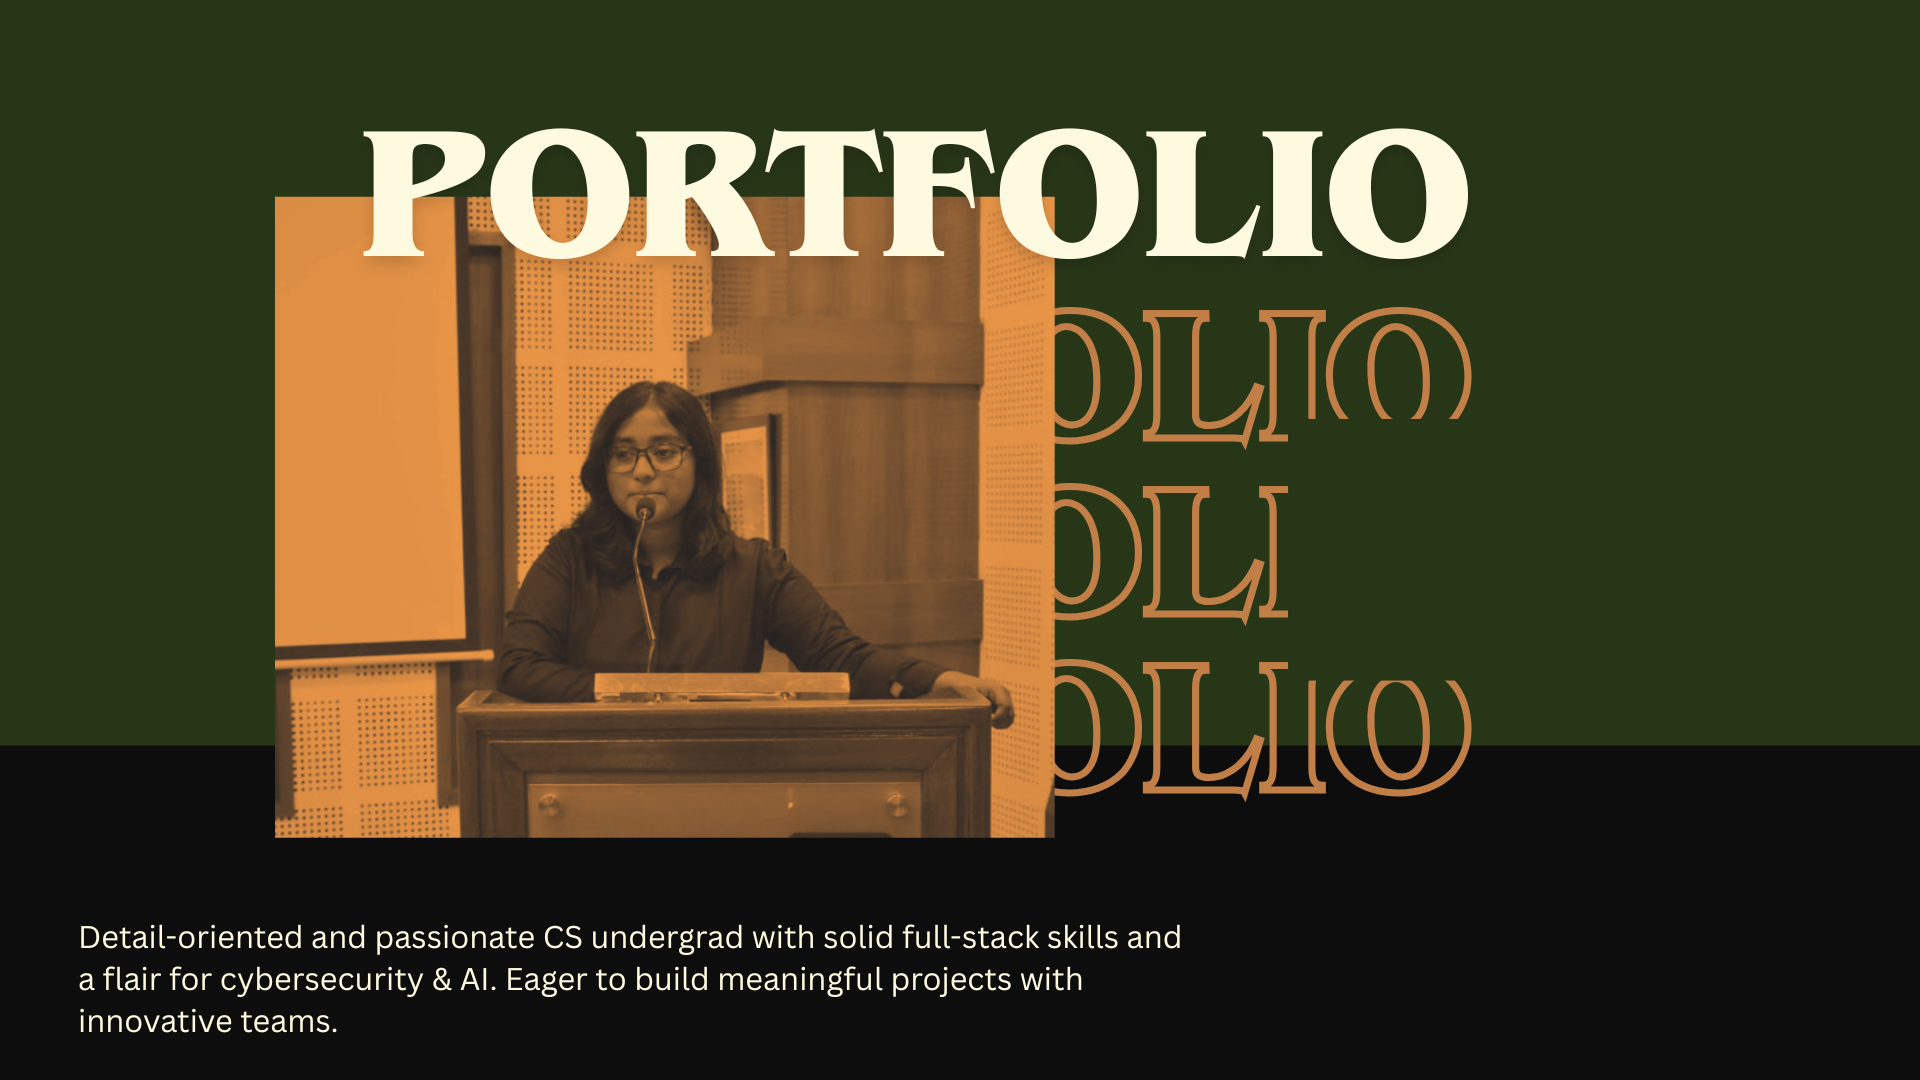
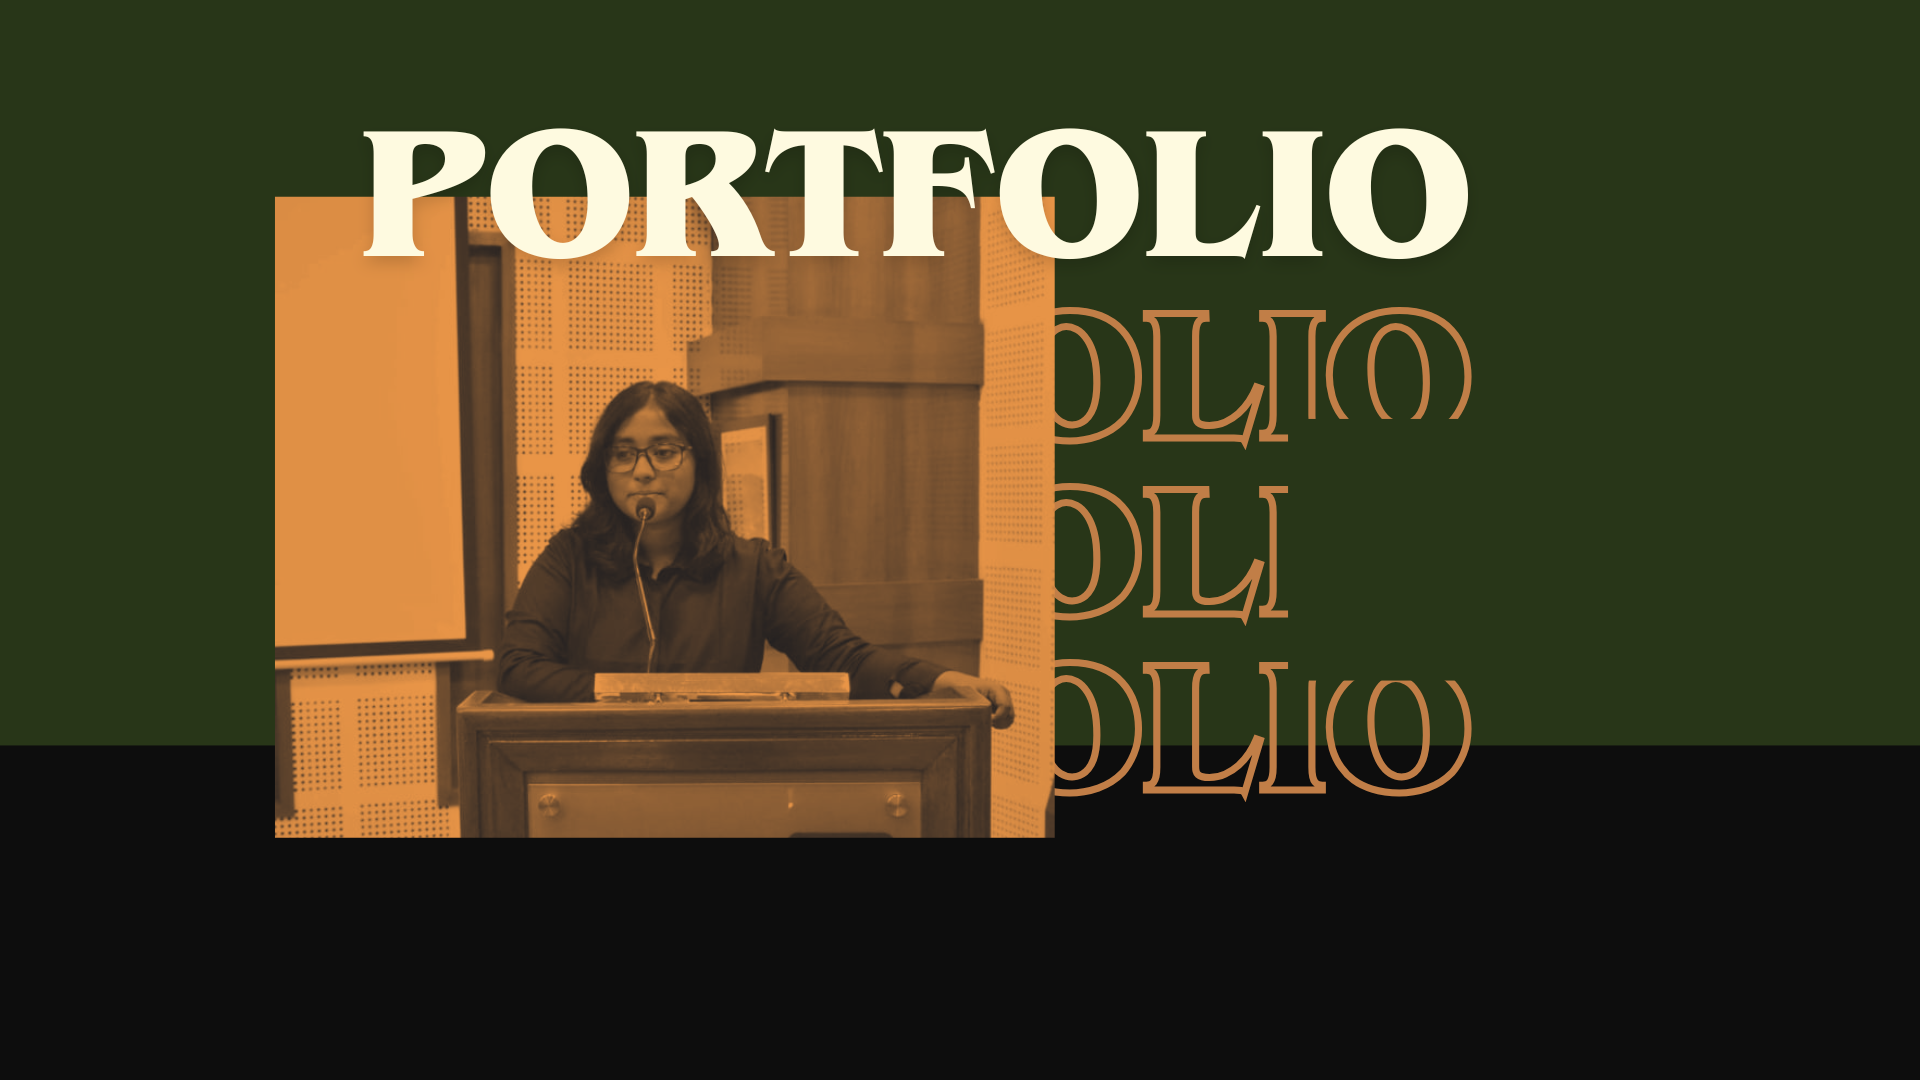
Added typing animation to hero section

Changed region(s): [[0.0312, 0.8556, 0.625, 0.9778]]

diff --git a/index.html b/index.html
@@ -22,49 +22,21 @@
     </div>
   </section>
 
+  <!-- Intro Section -->
+  <section class="intro">
+    <p>Detail-oriented and passionate CS undergrad with solid full-stack skills and a flair for cybersecurity & AI. Eager to build meaningful projects with innovative teams.</p>
+  </section>
+
  
 
   <!-- Education -->
   <section class="education">
     <h2>Education</h2>
     <ul>
-      <li><strong>Chitkara University</strong> – B.Tech CSE – CGPA: 8.92 – Aug 2022 – Present</li>
-      <li><strong>Sacred Heart Sr. Sec School</strong> – Class XII – 91% – Apr 2021 – Mar 2022</li>
-      <li><strong>Sacred Heart Sr. Sec School</strong> – Class X – 93.8% – Apr 2019 – Apr 2020</li>
+      <li><strong>Chitkara University</strong> –> B.Tech CSE – CGPA: 8.92  (Aug 2022 – Present)</li>
+      <li><strong>Sacred Heart Sr. Sec School</strong> –> Class XII – 91%  (Apr 2021 – Mar 2022)</li>
+      <li><strong>Sacred Heart Sr. Sec School</strong> –> Class X – 93.8%  (Apr 2019 – Apr 2020)</li>
     </ul>
-  </section>
-
-  <!-- Projects -->
-  <section class="projects">
-    <h2>Projects</h2>
-    <div class="project-grid">
-      <div class="project-card"><h3>Nexus Health</h3><p>AI-powered disease prediction web app using ML, Firebase, JS, Python.</p></div>
-      <div class="project-card"><h3>Kala Kriti</h3><p>Full-stack artisan eCommerce platform with Firebase auth and Stripe.</p></div>
-      <div class="project-card"><h3>Sizzle Swipe</h3><p>Food-based dating platform with custom match algorithm in MongoDB.</p></div>
-      <div class="project-card"><h3>Pharaoh’s Enigma</h3><p>Escape room puzzle game with dynamic transitions using JS.</p></div>
-      
-    </div>
-  </section>
-
-  <!-- Skills -->
-  <section class="skills">
-    <h2>Skills</h2>
-    <div class="skills-block">
-      <h3>Tech Stack</h3>
-      <ul>
-        <li>JavaScript, HTML, CSS</li>
-        <li>React.js, Node.js, Express.js</li>
-        <li>MySQL, MongoDB, Firebase</li>
-      </ul>
-    </div>
-    <div class="skills-block">
-      <h3>Tools & Platforms</h3>
-      <ul>
-        <li>Git, Firebase, Postman</li>
-        <li>VS Code, REST APIs</li>
-        <li>Cloud Computing Basics</li>
-      </ul>
-    </div>
   </section>
 
   <!-- Certifications -->
@@ -76,6 +48,58 @@
       <li>Foundations of Cybersecurity - Google</li>
     </ul>
   </section>
+
+
+  <section class="skills">
+    <h2>Technical Skills</h2>
+  
+    <div class="skills-container">
+      <!-- Tools & Platforms styled like Software Skills -->
+      <div class="skills-column">
+        <h3>Tools & Platforms</h3>
+        <div class="software-icons">
+          <span class="icon">Git</span>
+          <span class="icon">Firebase</span>
+          <span class="icon">Postman</span>
+          <span class="icon">VS Code</span>
+          <span class="icon">REST APIs</span>
+          <span class="icon">Cloud Basics</span>
+        </div>
+      </div>
+  
+      <!-- Tech Stack styled like Coding Skills -->
+      <div class="skills-column">
+        <h3>Tech Stack</h3>
+        <div class="software-icons">
+          <span class="icon">JavaScript</span>
+          <span class="icon">HTML</span>
+          <span class="icon">CSS</span>
+          <span class="icon">React.js</span>
+          <span class="icon">Node.js</span>
+          <span class="icon">Express.js</span>
+          <span class="icon">MySQL</span>
+          <span class="icon">MongoDB</span>
+          <span class="icon">Firebase</span>
+        </div>
+      </div>
+    </div>
+  
+  
+    
+  </section>
+
+   <!-- Projects -->
+   <section class="projects">
+    <h2>Projects</h2>
+    <div class="project-grid">
+      <div class="project-card"><h3>Nexus Health</h3><p>AI-powered disease prediction web app using ML, Firebase, JS, Python.</p></div>
+      <div class="project-card"><h3>Kala Kriti</h3><p>Full-stack artisan eCommerce platform with Firebase auth and Stripe.</p></div>
+      <div class="project-card"><h3>Sizzle Swipe</h3><p>Food-based dating platform with custom match algorithm in MongoDB.</p></div>
+      <div class="project-card"><h3>Pharaoh’s Enigma</h3><p>Escape room puzzle game with dynamic transitions using JS.</p></div>
+      
+    </div>
+  </section>
+  
 
   <!-- Extra Curriculars -->
   <section class="extras">

diff --git a/styles.css b/styles.css
@@ -45,7 +45,7 @@ body {
     height: 820px;
   }
   .typewriter {
-    font-size: 3.8rem;
+    font-size: 5.8rem;
     font-family:Impact, Haettenschweiler, 'Arial Narrow Bold', sans-serif;
     color: #fefae0;
     white-space: nowrap;
@@ -56,7 +56,7 @@ body {
     margin-top: 20px;
     display: inline-block;
     position: absolute;
-    top: 740px;
+    top: 790px;
     left : 0px;
   }
   
@@ -121,16 +121,25 @@ body {
   
   /* Intro */
   .intro {
-    background-color: #faedcd;
-    border-left: 10px solid #dda15e;
+    background-color: black;
+    height: 30px;
   }
   
   .intro p {
-    font-size: 1.1rem;
-    max-width: 800px;
+    font-size: 1.5rem;
+    width: 1000px;
+    position: relative;
+    bottom: 80px;
+    color: aliceblue;
   }
   
   /* Education */
+
+  .education {
+    
+    font-size: 1.4rem;
+  }
+
   .education ul {
     list-style: none;
     padding-left: 0;
@@ -140,6 +149,8 @@ body {
     margin: 15px 0;
     padding-left: 15px;
     border-left: 5px solid #bc6c25;
+    padding-bottom: 10px;
+    padding-top: 10px;
   }
   
   /* Projects */
@@ -167,20 +178,84 @@ body {
     transform: scale(1.03);
   }
   
-  /* Skills */
-  .skills-block {
-    margin-top: 20px;
+
+
+  .skills {
+    background-color: #2d3a2e; /* Dark green */
+    color: #fff;
+    padding: 40px;
+    font-family: sans-serif;
+    position: relative;
+    bottom:470px;
+    padding-left: 160px;
+    width:800px;
   }
   
-  .skills-block h3 {
-    color: #bc6c25;
+  .skills h2 {
+    color: #f4a261; 
+    font-size: 55px;
+    margin-bottom: 20px;
+  }
+  
+  .skills-container {
+    display: flex;
+    gap: 40px;
+    flex-wrap: wrap;
+  }
+  
+  .skills-column {
+    flex: 1;
+    min-width: 250px;
+    font-size: 1.4rem;
+  }
+  
+  .skills-column h3 {
+    color: #ffffff;
     margin-bottom: 10px;
+    font-size: 30px;
   }
   
-  .skills-block ul {
-    list-style: disc;
-    padding-left: 20px;
+  .software-icons {
+    display: flex;
+    gap: 10px;
+    flex-wrap: wrap;
   }
+  
+  .icon {
+    background: #f4f4f4;
+    color: #000;
+    font-weight: bold;
+    padding: 10px 14px;
+    border-radius: 8px;
+    font-size: 18px;
+  }
+  
+  .coding-skills {
+    margin-top: 8px;
+  }
+  
+  .coding-skills span {
+    display: inline-block;
+    margin-right: 10px;
+    margin-top: 4px;
+    font-size: 14px;
+  }
+  
+  .tags {
+    margin-top: 30px;
+    display: flex;
+    gap: 15px;
+    flex-wrap: wrap;
+  }
+  
+  .tag {
+    background-color: #000;
+    color: #fff;
+    padding: 10px 20px;
+    border-radius: 999px;
+    font-size: 14px;
+  }
+  
   
   /* Certifications, Extras, Hobbies */
   .certifications ul,
@@ -188,6 +263,27 @@ body {
   .hobbies ul {
     list-style: square;
     padding-left: 20px;
+  }
+
+  .certifications {
+    
+    font-size: 1.4rem;
+    position: relative;
+    left: 970px;
+    bottom:200px;
+  }
+
+  .certifications ul {
+    list-style: none;
+    padding-left: 0;
+  }
+  
+  .certifications li {
+    margin: 15px 0;
+    padding-left: 15px;
+    border-left: 5px solid #bc6c25;
+    padding-bottom: 10px;
+    padding-top: 10px;
   }
   
   /* Footer */
